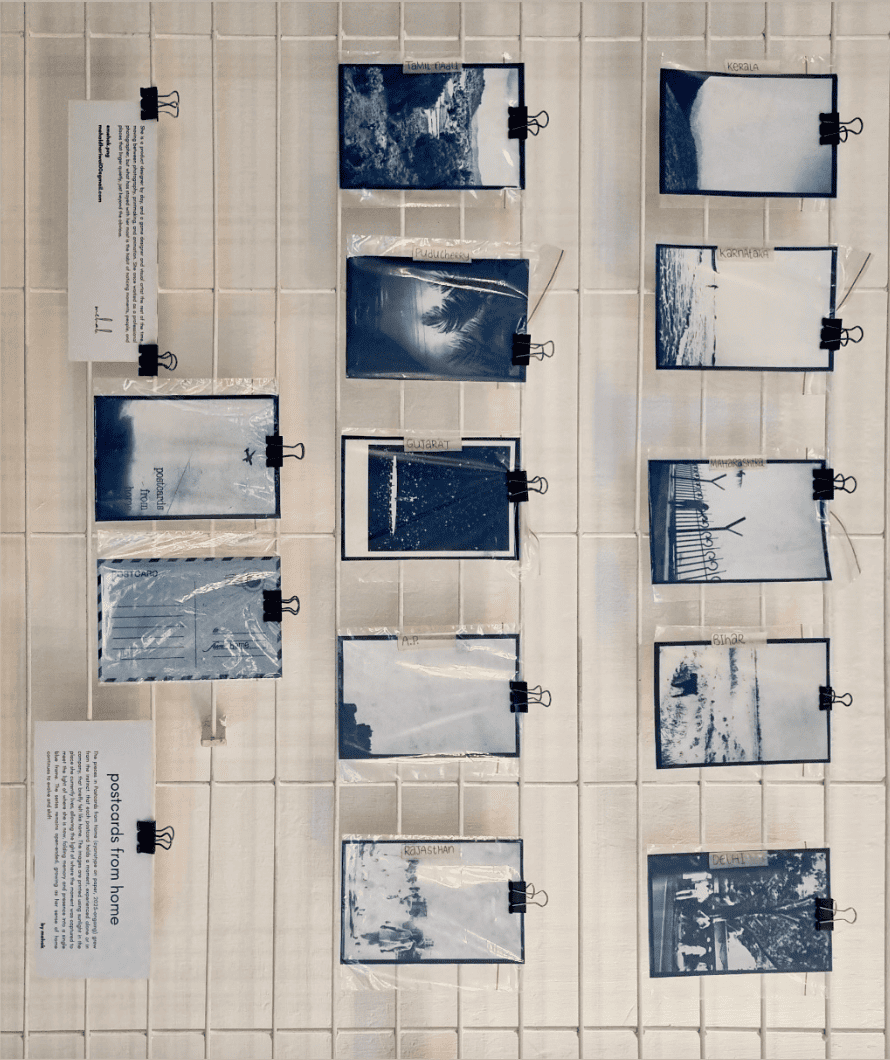
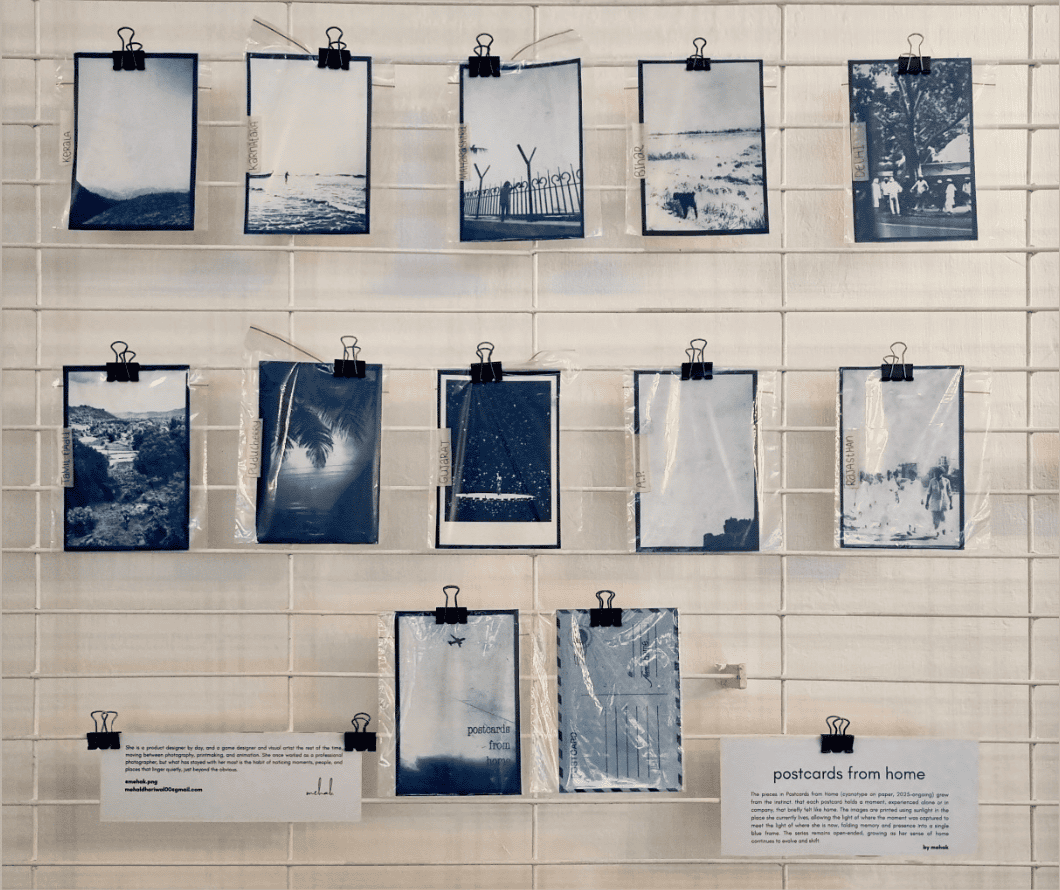
second update

diff --git a/assets/styles.css b/assets/styles.css
@@ -401,9 +401,19 @@ ul.ticks li::before{
 .g-make .p3{ max-width:62%; max-height:58%; bottom:-3%; left:12%; transform:rotate(2deg); z-index:1; }
 
 /* group 2 — animation loops: peacock left · watermelon · hand-eye (tall) right */
-.g-loops .p1{ max-width:47%; max-height:47%; top:5%;  left:-1%; bottom:auto; transform:rotate(-4deg); z-index:2; }
-.g-loops .p2{ max-width:43%; max-height:43%; top:auto; bottom:3%; left:8%; right:auto; transform:rotate(3deg); z-index:1; }
-.g-loops .p3{ max-width:40%; max-height:86%; top:50%; right:0; bottom:auto; left:auto; transform:translateY(-50%) rotate(3deg); z-index:3; }
+.g-loops .p1{ max-width:47%; max-height:47%; top:5%;  left:4%; bottom:auto; transform:rotate(-4deg); z-index:2; }
+.g-loops .p2{ max-width:43%; max-height:43%; top:auto; bottom:3%; left:13%; right:auto; transform:rotate(3deg); z-index:1; }
+.g-loops .p3{ max-width:40%; max-height:86%; top:50%; right:7%; bottom:auto; left:auto; transform:translateY(-50%) rotate(3deg); z-index:3; }
+
+/* group 5 — take pictures: held camera (right) enlarged */
+.g-cams .p1{ max-width:48%; max-height:56%; top:2%;  left:0;  bottom:auto; right:auto; transform:rotate(-4deg); z-index:2; }
+.g-cams .p2{ max-width:52%; max-height:64%; top:20%; right:0; bottom:auto; left:auto; transform:rotate(4deg); z-index:3; }
+.g-cams .p3{ max-width:46%; max-height:46%; bottom:1%; left:13%; top:auto; right:auto; transform:rotate(2deg); z-index:1; }
+
+/* group 4 — travel: cliff (right) enlarged */
+.g-travel .p1{ max-width:46%; max-height:50%; top:2%;  left:0;  bottom:auto; right:auto; transform:rotate(-4deg); z-index:2; }
+.g-travel .p2{ max-width:56%; max-height:70%; top:16%; right:0; bottom:auto; left:auto; transform:rotate(4deg); z-index:3; }
+.g-travel .p3{ max-width:44%; max-height:44%; bottom:1%; left:12%; top:auto; right:auto; transform:rotate(2deg); z-index:1; }
 
 /* group 3 — prints: framed cyanotype trio (tall held frames) */
 .g-prints .p1{ max-width:43%; max-height:62%; top:1%;   left:0;    bottom:auto; right:auto; transform:rotate(-4deg); z-index:2; }
@@ -728,4 +738,7 @@ html.aw-ok .gate{ display:none; }
 .gate .err-msg.show{ opacity:1; }
 .gate .back{ display:inline-block; margin-top:26px; font-family:var(--mono); font-size:12px; color:var(--ink-faint); text-decoration:none; }
 .gate .back:hover{ color:var(--ink); }
+.gate .reach{ margin-top:22px; padding-top:20px; border-top:1px solid var(--line-soft); font-size:13.5px; color:var(--ink-soft); }
+.gate .reach a{ color:var(--orange-deep); text-decoration:none; font-weight:600; border-bottom:1.5px solid oklch(0.66 0.185 38 / 0.35); }
+.gate .reach a:hover{ border-bottom-color:var(--orange-deep); }
 @media (max-width:440px){ .gate form{ flex-direction:column; } .gate .btn{ justify-content:center; } }

diff --git a/study3.html b/study3.html
@@ -19,6 +19,7 @@
       <button class="btn btn-primary" type="submit">Unlock <span class="arr">&rarr;</span></button>
     </form>
     <div class="err-msg"></div>
+    <p class="reach">Don't have the password? Happy to walk you through it &mdash; <a href="https://www.linkedin.com/in/mehak-dhariwal/" target="_blank" rel="noopener">reach out on LinkedIn</a>.</p>
     <a class="back" href="work.html">&larr; Back to all work</a>
   </div>
 </div>
@@ -39,7 +40,7 @@
     <button class="nav-toggle" aria-label="Menu"><span></span><span></span><span></span></button>
   </div>
 </header>
-<div class="subnav studies"><div class="subnav-inner"><a href="apartworld.html" class="sub-label" style="text-decoration:none;">&larr; ApartWorld</a><a href="study1.html">01 &middot; Understanding the ecosystem</a><a href="study2.html">02 &middot; Understanding users at scale</a><a href="study3.html" class="on">03 &middot; From research to MVP</a><a href="study4.html">04 &middot; Evaluating the flows</a></div></div>
+<div class="subnav studies"><div class="subnav-inner"><a href="apartworld.html" class="sub-label" style="text-decoration:none;">&larr; ApartWorld</a><a href="study1.html">01 &middot; Understanding the ecosystem</a><a href="study2.html">02 &middot; Understanding users at scale</a><a href="study3.html" class="on">03 &middot; From research to MVP</a><a href="study4.html">04 &middot; Evaluating flows</a></div></div>
 <main class="reader section" style="padding-top:clamp(20px,3vw,32px);">
 
 <style>
@@ -294,7 +295,7 @@
 </div>
 
 </main>
-<div class="study-pager"><a class="prev" href="study2.html"><div class="dir">&larr; Previous study</div><div class="ttl">02 &middot; Understanding users at scale</div></a><a class="next" href="study4.html"><div class="dir">Next study &rarr;</div><div class="ttl">04 &middot; Evaluating the flows</div></a></div>
+<div class="study-pager"><a class="prev" href="study2.html"><div class="dir">&larr; Previous study</div><div class="ttl">02 &middot; Understanding users at scale</div></a><a class="next" href="study4.html"><div class="dir">Next study &rarr;</div><div class="ttl">04 &middot; Evaluating flows</div></a></div>
 <div style="height:clamp(48px,7vw,80px)"></div>
 <footer class="foot">
   <div class="wrap">

diff --git a/index.html b/index.html
@@ -72,13 +72,13 @@
           <img class="hc p3 pic" src="assets/img/hero/cyan-boat.gif" alt="">
         </figure>
         <!-- 4 travel -->
-        <figure class="hero-shot">
+        <figure class="hero-shot g-travel">
           <img class="hc p1 pic" src="assets/img/hero/travel-chembra.png" alt="">
           <img class="hc p2 pic" src="assets/img/hero/travel-hill.png" alt="">
           <img class="hc p3 pic" src="assets/img/hero/travel-bombay.gif" alt="">
         </figure>
         <!-- 5 take pictures: cameras -->
-        <figure class="hero-shot">
+        <figure class="hero-shot g-cams">
           <img class="hc p1 pic" src="assets/img/hero/cam-saree.jpg" alt="">
           <img class="hc p2 pic" src="assets/img/hero/book-manto.jpg" alt="">
           <img class="hc p3 pic" src="assets/img/hero/cam-mosaic.jpg" alt="">
@@ -248,7 +248,20 @@
         </div>
       </div>
 
-      <!-- 3 -->
+      <!-- 3 — fashion diploma -->
+      <div class="milestone reveal">
+        <div class="node"></div>
+        <div class="m-body">
+          <div class="m-year">2017 — 2019</div>
+          <h3 class="m-title">Diploma in Fashion Design</h3>
+          <p>Alongside college, a diploma at <strong>Dreamzone School of Creative Studies</strong> — design, illustration &amp; garment construction, culminating in a graduation runway show.</p>
+        </div>
+        <div class="m-media">
+          <div class="collage-wrap m"><img class="collage rot-r1" data-float="0.03" src="assets/img/journey/dreamzone.png" alt="Mehak's design walking the Dreamzone graduation show runway, 2018"></div>
+        </div>
+      </div>
+
+      <!-- 4 -->
       <div class="milestone wide reveal">
         <div class="node"></div>
         <div class="m-body">

diff --git a/study1.html b/study1.html
@@ -19,6 +19,7 @@
       <button class="btn btn-primary" type="submit">Unlock <span class="arr">&rarr;</span></button>
     </form>
     <div class="err-msg"></div>
+    <p class="reach">Don't have the password? Happy to walk you through it &mdash; <a href="https://www.linkedin.com/in/mehak-dhariwal/" target="_blank" rel="noopener">reach out on LinkedIn</a>.</p>
     <a class="back" href="work.html">&larr; Back to all work</a>
   </div>
 </div>
@@ -39,7 +40,7 @@
     <button class="nav-toggle" aria-label="Menu"><span></span><span></span><span></span></button>
   </div>
 </header>
-<div class="subnav studies"><div class="subnav-inner"><a href="apartworld.html" class="sub-label" style="text-decoration:none;">&larr; ApartWorld</a><a href="study1.html" class="on">01 &middot; Understanding the ecosystem</a><a href="study2.html">02 &middot; Understanding users at scale</a><a href="study3.html">03 &middot; From research to MVP</a><a href="study4.html">04 &middot; Evaluating the flows</a></div></div>
+<div class="subnav studies"><div class="subnav-inner"><a href="apartworld.html" class="sub-label" style="text-decoration:none;">&larr; ApartWorld</a><a href="study1.html" class="on">01 &middot; Understanding the ecosystem</a><a href="study2.html">02 &middot; Understanding users at scale</a><a href="study3.html">03 &middot; From research to MVP</a><a href="study4.html">04 &middot; Evaluating flows</a></div></div>
 <main class="reader section" style="padding-top:clamp(20px,3vw,32px);">
 
 <style>

diff --git a/study2.html b/study2.html
@@ -19,6 +19,7 @@
       <button class="btn btn-primary" type="submit">Unlock <span class="arr">&rarr;</span></button>
     </form>
     <div class="err-msg"></div>
+    <p class="reach">Don't have the password? Happy to walk you through it &mdash; <a href="https://www.linkedin.com/in/mehak-dhariwal/" target="_blank" rel="noopener">reach out on LinkedIn</a>.</p>
     <a class="back" href="work.html">&larr; Back to all work</a>
   </div>
 </div>
@@ -39,7 +40,7 @@
     <button class="nav-toggle" aria-label="Menu"><span></span><span></span><span></span></button>
   </div>
 </header>
-<div class="subnav studies"><div class="subnav-inner"><a href="apartworld.html" class="sub-label" style="text-decoration:none;">&larr; ApartWorld</a><a href="study1.html">01 &middot; Understanding the ecosystem</a><a href="study2.html" class="on">02 &middot; Understanding users at scale</a><a href="study3.html">03 &middot; From research to MVP</a><a href="study4.html">04 &middot; Evaluating the flows</a></div></div>
+<div class="subnav studies"><div class="subnav-inner"><a href="apartworld.html" class="sub-label" style="text-decoration:none;">&larr; ApartWorld</a><a href="study1.html">01 &middot; Understanding the ecosystem</a><a href="study2.html" class="on">02 &middot; Understanding users at scale</a><a href="study3.html">03 &middot; From research to MVP</a><a href="study4.html">04 &middot; Evaluating flows</a></div></div>
 <main class="reader section" style="padding-top:clamp(20px,3vw,32px);">
 
 <style>

diff --git a/study4.html b/study4.html
@@ -19,6 +19,7 @@
       <button class="btn btn-primary" type="submit">Unlock <span class="arr">&rarr;</span></button>
     </form>
     <div class="err-msg"></div>
+    <p class="reach">Don't have the password? Happy to walk you through it &mdash; <a href="https://www.linkedin.com/in/mehak-dhariwal/" target="_blank" rel="noopener">reach out on LinkedIn</a>.</p>
     <a class="back" href="work.html">&larr; Back to all work</a>
   </div>
 </div>
@@ -39,7 +40,7 @@
     <button class="nav-toggle" aria-label="Menu"><span></span><span></span><span></span></button>
   </div>
 </header>
-<div class="subnav studies"><div class="subnav-inner"><a href="apartworld.html" class="sub-label" style="text-decoration:none;">&larr; ApartWorld</a><a href="study1.html">01 &middot; Understanding the ecosystem</a><a href="study2.html">02 &middot; Understanding users at scale</a><a href="study3.html">03 &middot; From research to MVP</a><a href="study4.html" class="on">04 &middot; Evaluating the flows</a></div></div>
+<div class="subnav studies"><div class="subnav-inner"><a href="apartworld.html" class="sub-label" style="text-decoration:none;">&larr; ApartWorld</a><a href="study1.html">01 &middot; Understanding the ecosystem</a><a href="study2.html">02 &middot; Understanding users at scale</a><a href="study3.html">03 &middot; From research to MVP</a><a href="study4.html" class="on">04 &middot; Evaluating flows</a></div></div>
 <main class="reader section" style="padding-top:clamp(20px,3vw,32px);">
 
 <style>

diff --git a/studio.html b/studio.html
@@ -53,9 +53,9 @@
       <p class="mt-s" style="font-size:16px;">A hand-printed cyanotype series — a postcard from each place I've called, or passed through. Coated by hand, exposed to the sun, washed and dried on the terrace. Slow, imperfect, and impossible to rush.</p>
     </div>
 
-    <div class="grid cols-2 reveal d1" style="margin-top:clamp(28px,4vw,40px); align-items:start;">
+    <div class="reveal d1" style="margin-top:clamp(28px,4vw,40px); display:grid; gap:16px;">
       <figure style="margin:0;"><img class="ui-shot" src="assets/img/postcards-grid.png" alt="A grid of cyanotype postcards labelled by Indian state"><figcaption class="ui-cap">The series, pinned up — a postcard for each state: Tamil Nadu, Kerala, Karnataka, Maharashtra, Gujarat, Rajasthan, Bihar, Delhi…</figcaption></figure>
-      <div class="ui-stack">
+      <div class="grid cols-2" style="align-items:start;">
         <figure style="margin:0;"><img class="ui-shot" src="assets/img/postcards-dry.png" alt="Cyanotype postcards drying on a clothesline"><figcaption class="ui-cap">Drying in the sun after the wash.</figcaption></figure>
         <figure style="margin:0;"><img class="ui-shot" src="assets/img/postcard-front.png" alt="Front and back of a cyanotype postcard"><figcaption class="ui-cap">Each one a real, sendable postcard — image front, lines on the back.</figcaption></figure>
       </div>

diff --git a/apartworld.html b/apartworld.html
@@ -21,6 +21,7 @@
       <button class="btn btn-primary" type="submit">Unlock <span class="arr">&rarr;</span></button>
     </form>
     <div class="err-msg"></div>
+    <p class="reach">Don't have the password? Happy to walk you through it &mdash; <a href="https://www.linkedin.com/in/mehak-dhariwal/" target="_blank" rel="noopener">reach out on LinkedIn</a>.</p>
     <a class="back" href="work.html">&larr; Back to all work</a>
   </div>
 </div>
@@ -239,7 +240,6 @@
 
     <div class="row reveal" style="margin-top:clamp(28px,4vw,40px); gap:14px;">
       <a class="btn btn-primary" href="study1.html">Start with Study 01 <span class="arr">→</span></a>
-      <a class="btn btn-ghost" href="https://www.figma.com/proto/MC7xFwROlUHtUqAmTDRnye/Portfolio-Template?node-id=1207-172&scaling=scale-down-width&page-id=0%3A1&hide-ui=1" target="_blank" rel="noopener">View the prototype ↗</a>
     </div>
   </div>
 </section>
